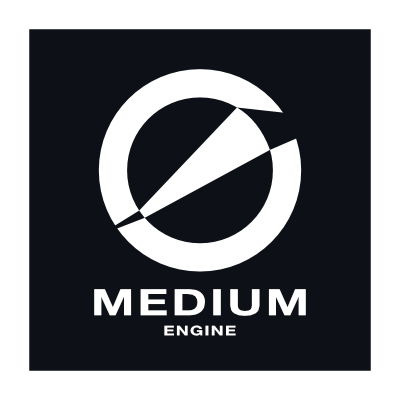
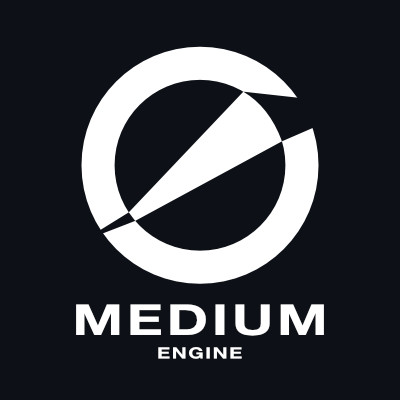
Update README

diff --git a/README.md b/README.md
@@ -1,3 +1,3 @@
 MEDIUM
 ====
-<img src="https://github.com/elexenon/MEDIUM/blob/main/medium/raw/assets/imgs/MEDIUM_BIG.png" width = 60% height = 60% div align=center />
+<img src="https://github.com/elexenon/MEDIUM/blob/main/medium/raw/assets/imgs/MEDIUM.png" width = 100% height = 100% div align=center />
